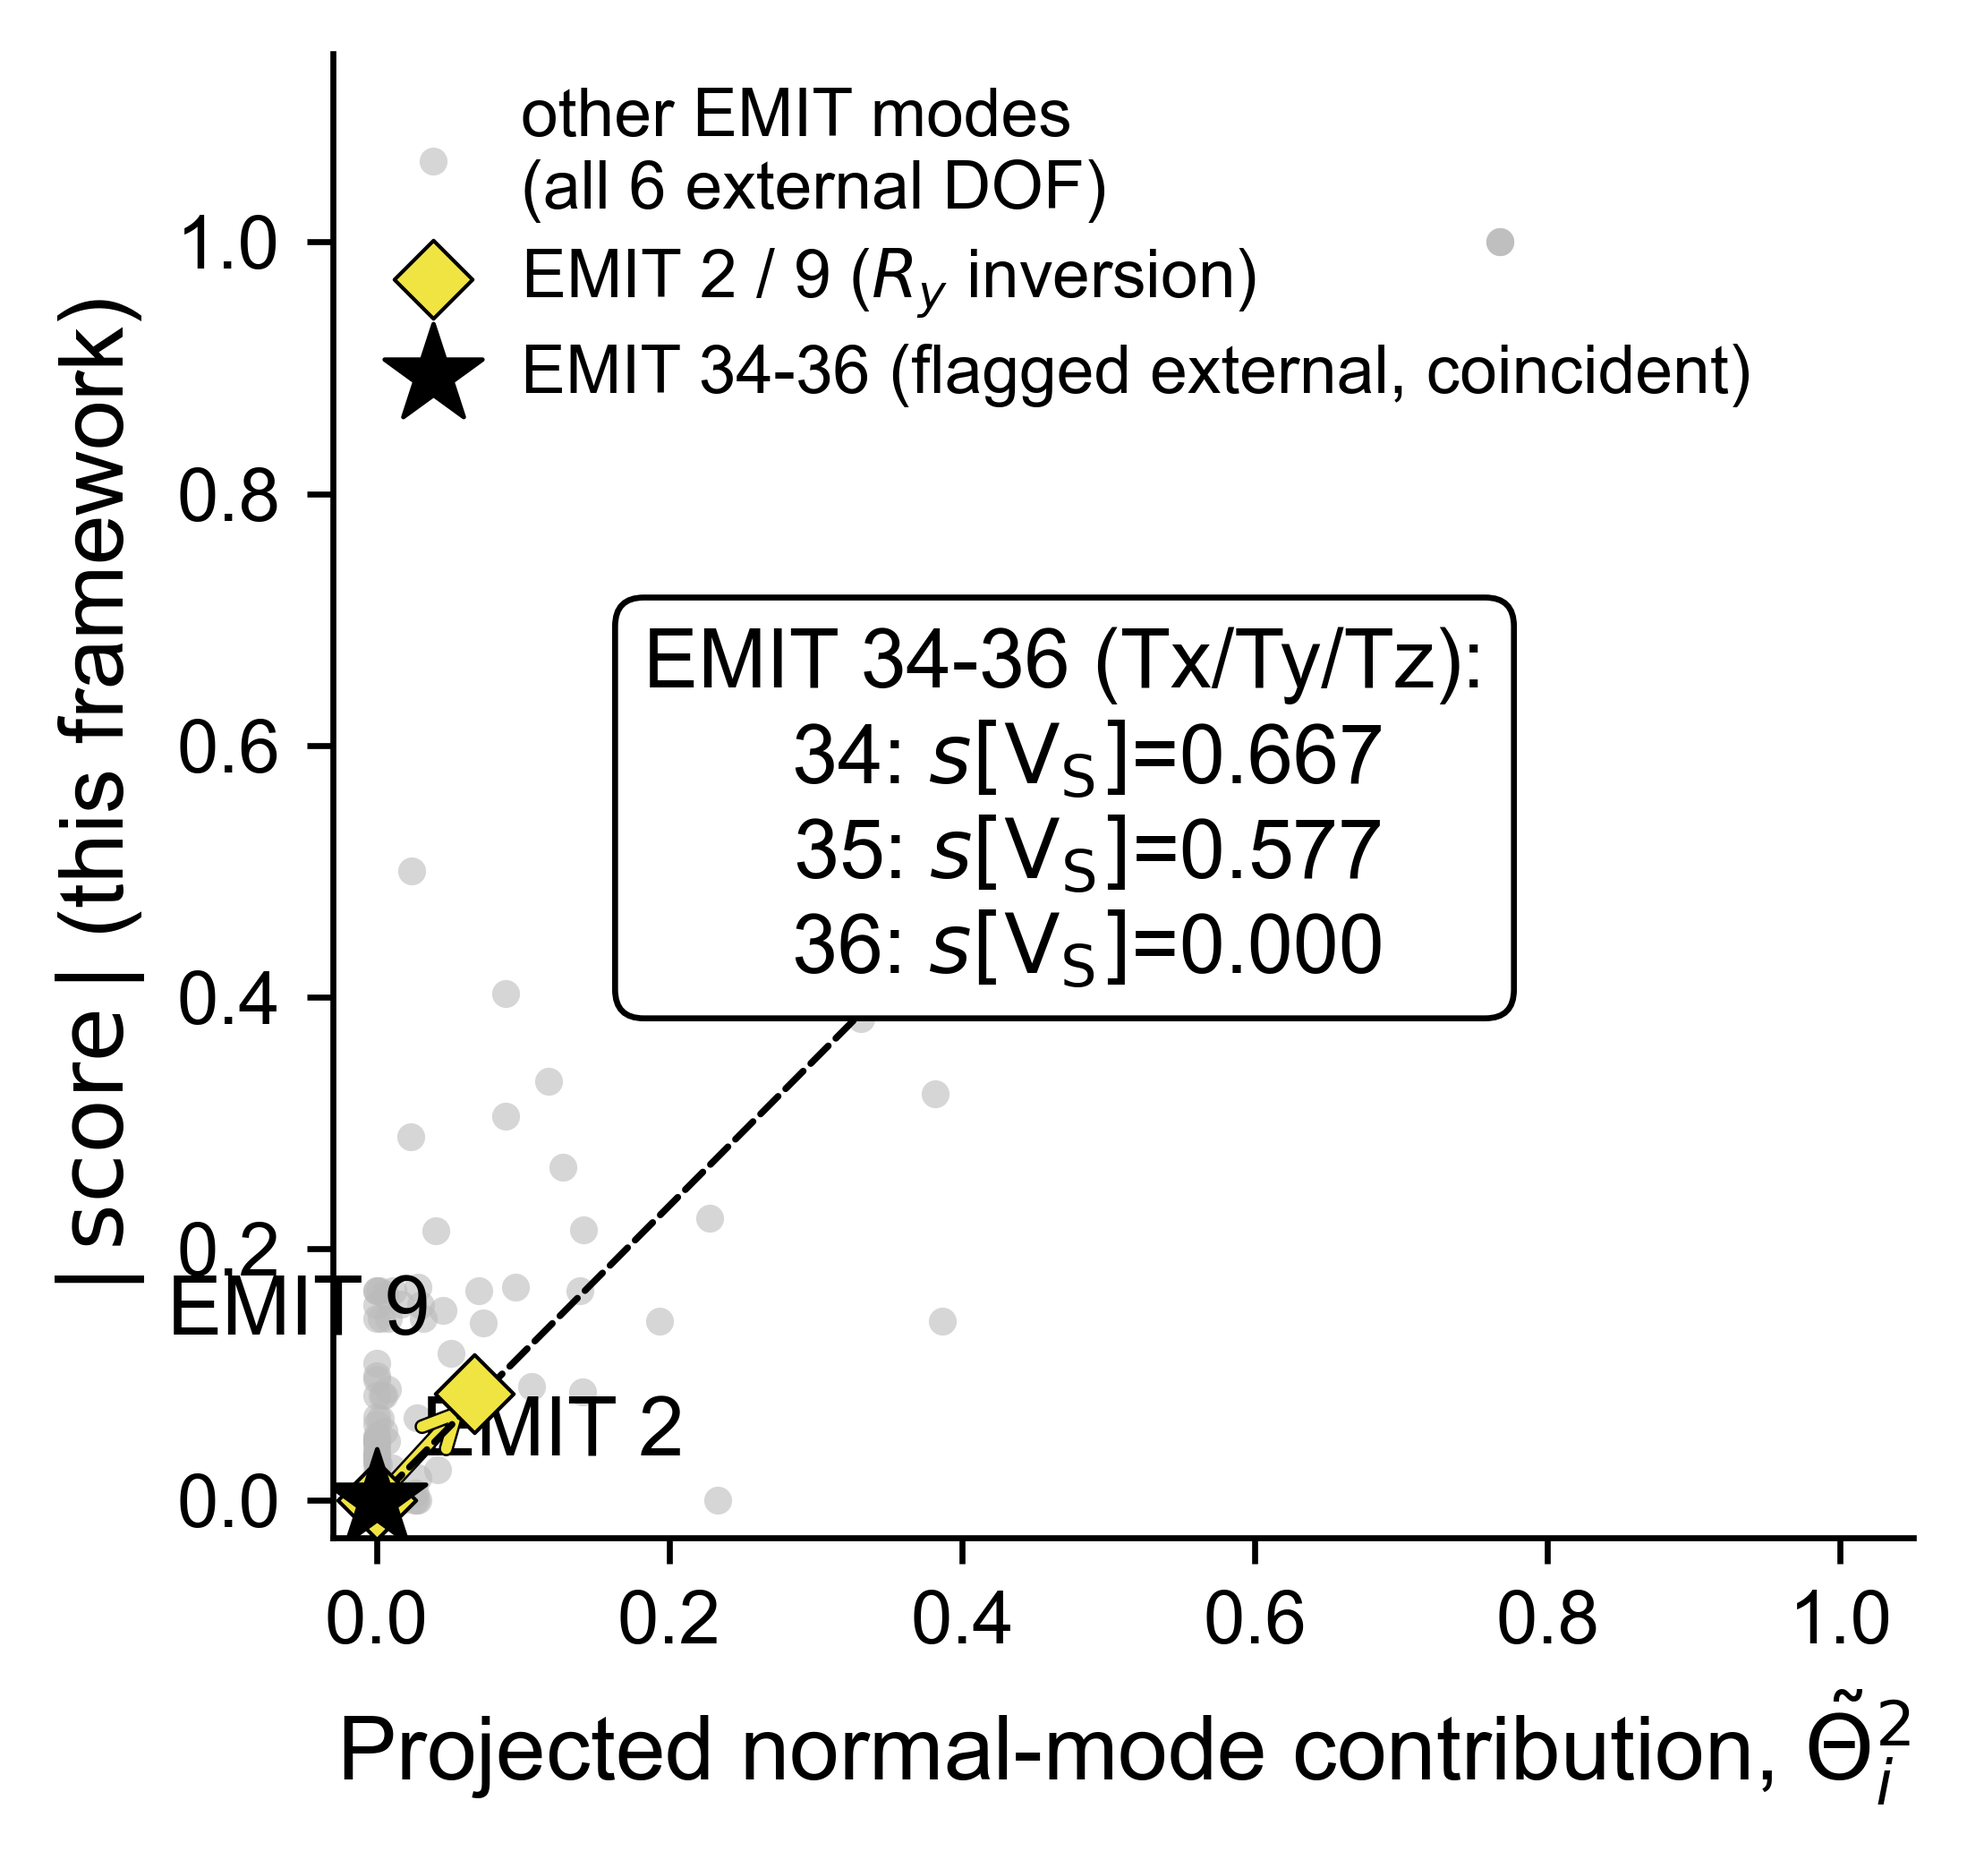
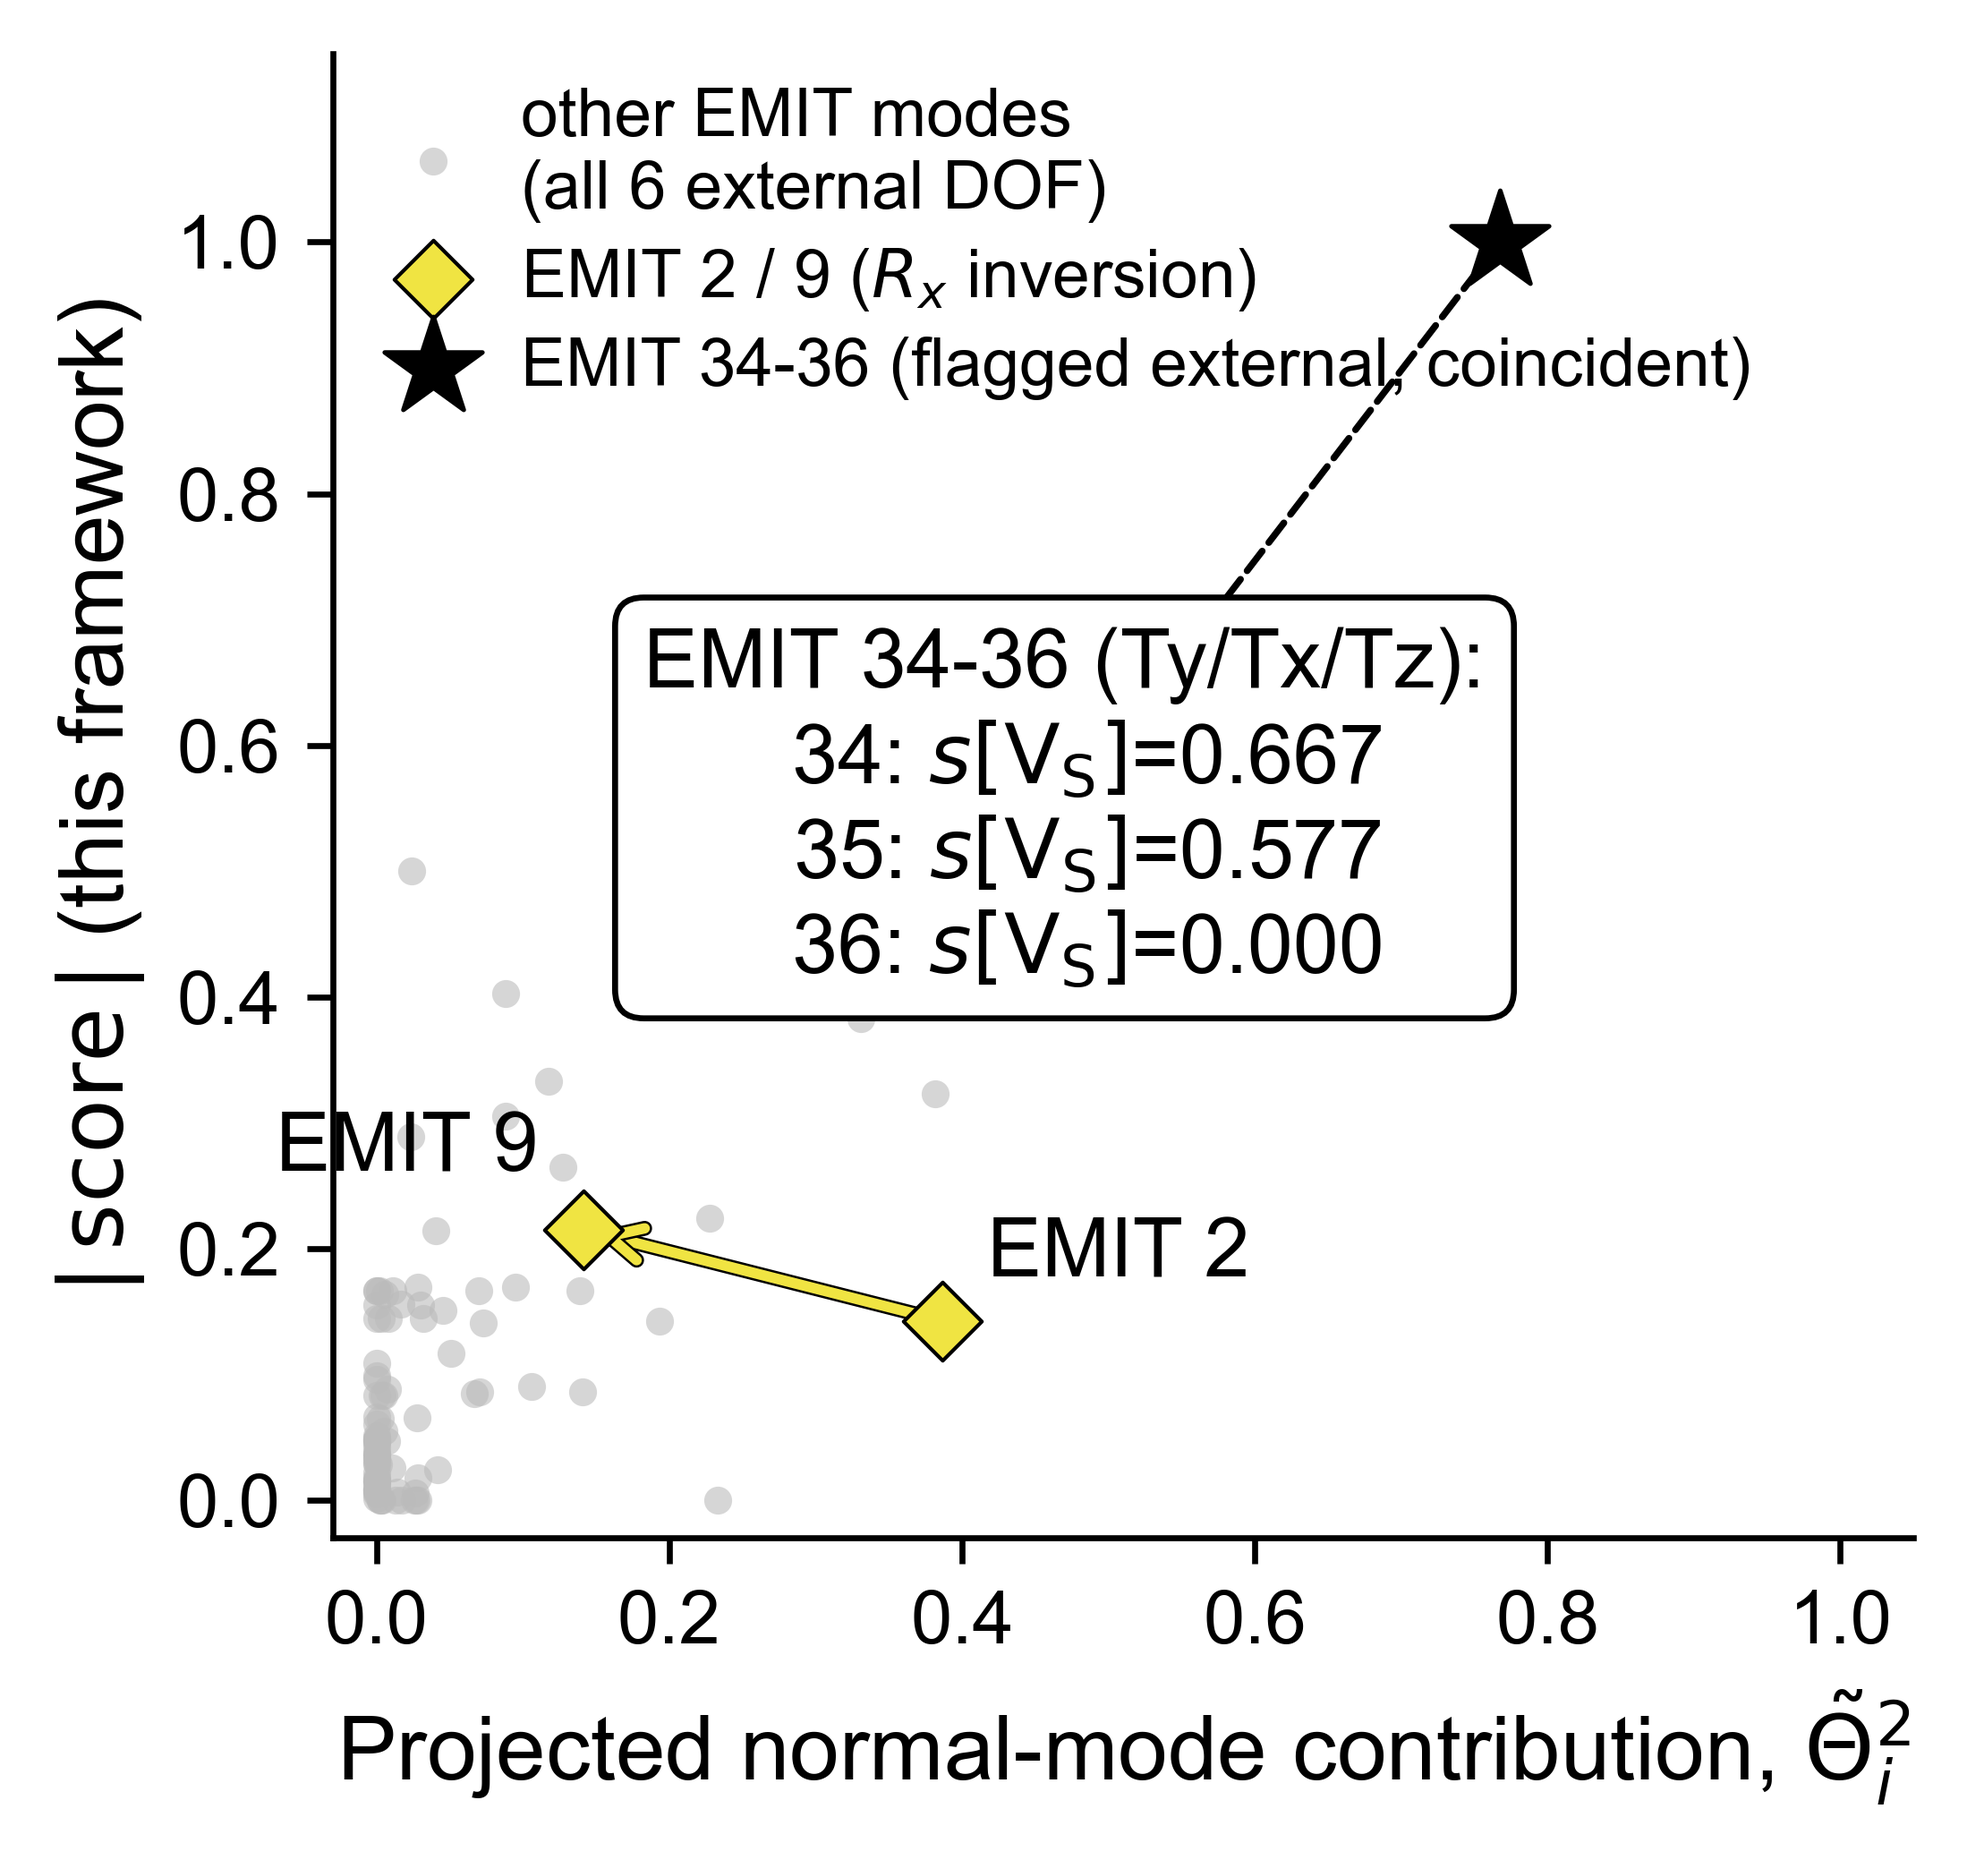
Read benzene EMIT slot axes from tr_label in the stress-test figure
plot_benzene_stress_test hard-coded R_y for the EMIT 2/9 inversion and
T_x/T_y for EMIT 34/35. Under the R1.5 frame rule benzene's in-plane names
are swapped, so the figure read the wrong columns (EMIT 2/9 and 34-36
collapsed to the origin). The axes now come from each mode's tr_label.

diff --git a/src/figures.py b/src/figures.py
@@ -452,17 +452,22 @@ def plot_benzene_stress_test(
                  alpha=0.6, linewidths=0, zorder=2,
                  label="other EMIT modes\n(all 6 external DOF)")
 
-    # -- Highlight 1: s[R_y] non-monotonicity, EMIT 2 vs EMIT 9 --
+    # -- Highlight 1: s[R] non-monotonicity, EMIT 2 vs EMIT 9 --
+    # The in-plane R axis EMIT 9 wins depends on the frame convention (R_y in
+    # the submitted MIT frame, R_x in the R1.5 frame), so read it from the
+    # CSV's own tr_label instead of hard-coding it.
     def _row(mode):
         return emit.loc[emit["Mode"] == mode].iloc[0]
 
     e2, e9 = _row("EMIT 2"), _row("EMIT 9")
-    ax_b.scatter([e2["C2_Ry"], e9["C2_Ry"]], [abs(e2["Ry"]), abs(e9["Ry"])],
+    r_ax = str(e9["tr_label"]) if isinstance(e9["tr_label"], str) and e9["tr_label"].startswith("R") else "Ry"
+    r_tex = "$R_" + r_ax[1] + "$"
+    ax_b.scatter([e2["C2_" + r_ax], e9["C2_" + r_ax]], [abs(e2[r_ax]), abs(e9[r_ax])],
                  color=COLORS["highlight_r"], marker="D", s=55,
                  edgecolors="black", linewidths=0.5, zorder=5,
-                 label=r"EMIT 2 / 9 ($R_y$ inversion)")
+                 label="EMIT 2 / 9 (" + r_tex + " inversion)")
     ann_r = ax_b.annotate(
-        "", xy=(e9["C2_Ry"], abs(e9["Ry"])), xytext=(e2["C2_Ry"], abs(e2["Ry"])),
+        "", xy=(e9["C2_" + r_ax], abs(e9[r_ax])), xytext=(e2["C2_" + r_ax], abs(e2[r_ax])),
         arrowprops=dict(arrowstyle="->", color=COLORS["highlight_r"], lw=1.4),
         zorder=4,
     )
@@ -471,18 +476,21 @@ def plot_benzene_stress_test(
     ann_r.arrow_patch.set_path_effects(
         [pe.Stroke(linewidth=2.0, foreground="black"), pe.Normal()])
     # EMIT 9 label offset upper-left, clear of the arrow's approach angle.
-    ax_b.annotate("EMIT 2", (e2["C2_Ry"], abs(e2["Ry"])),
+    ax_b.annotate("EMIT 2", (e2["C2_" + r_ax], abs(e2[r_ax])),
                   xytext=(6, 6), textcoords="offset points")
-    ax_b.annotate("EMIT 9", (e9["C2_Ry"], abs(e9["Ry"])),
+    ax_b.annotate("EMIT 9", (e9["C2_" + r_ax], abs(e9[r_ax])),
                   xytext=(-6, 8), textcoords="offset points",
                   ha="right")
 
     # -- Highlight 2: flagged external modes, EMIT 34/35/36. By symmetry
-    # (Tx/Ty/Tz translation) these three coincide exactly at the same
+    # (translations) these three coincide exactly at the same
     # (contribution, score) point -- plotted once, with a side callout table
     # (not per-point labels, which would overlap) giving the s[V_S] readout
-    # that distinguishes them.
-    flagged = [("EMIT 34", "Tx"), ("EMIT 35", "Ty"), ("EMIT 36", "Tz")]
+    # that distinguishes them. Their T axes come from tr_label (frame-dependent).
+    flagged = []
+    for mode in ("EMIT 34", "EMIT 35", "EMIT 36"):
+        lab = _row(mode)["tr_label"]
+        flagged.append((mode, lab if isinstance(lab, str) and lab.startswith("T") else "Tz"))
     fx, fy, fvs = [], [], []
     for mode, ax_name in flagged:
         r = _row(mode)
@@ -501,7 +509,7 @@ def plot_benzene_stress_test(
                         lw=0.9, ls="--"),
         zorder=4,
     )
-    callout_text = "EMIT 34-36 (Tx/Ty/Tz):\n" + "\n".join(
+    callout_text = "EMIT 34-36 (" + "/".join(ax for _, ax in flagged) + "):\n" + "\n".join(
         f"  {mode.split()[1]}: " + r"$s[\mathrm{V_S}]$" + f"={vs:.3f}"
         for (mode, _), vs in zip(flagged, fvs)
     )
@@ -529,10 +537,11 @@ def plot_benzene_stress_test(
         "pdf": pdf_path,
         "png": png_path,
         "n_background_points": len(bg_x),
-        "emit2_Ry_score": float(abs(e2["Ry"])),
-        "emit2_Ry_contribution": float(e2["C2_Ry"]),
-        "emit9_Ry_score": float(abs(e9["Ry"])),
-        "emit9_Ry_contribution": float(e9["C2_Ry"]),
+        "emit29_R_axis": r_ax,
+        "emit2_R_score": float(abs(e2[r_ax])),
+        "emit2_R_contribution": float(e2["C2_" + r_ax]),
+        "emit9_R_score": float(abs(e9[r_ax])),
+        "emit9_R_contribution": float(e9["C2_" + r_ax]),
         "emit34_36_scores": fy,
         "emit34_36_contributions": fx,
         "emit34_36_vstretch": fvs,

diff --git a/src/flag_validation.py b/src/flag_validation.py
@@ -14,8 +14,9 @@ below): precision = 1.0 (flag never fires on a genuinely clean mode), recall
 one-to-one linear_sum_assignment only ever assigns 6 of 36 modes an external
 slot at all (by construction, not a bug) -- the other 30 modes reach Step 4
 and can never be flagged regardless of true external character. E.g. EMIT 2
-has more genuine Ry character than EMIT 9 by projection (38.7% vs 14.1%) but
-EMIT 9 wins the Ry slot on raw score (0.215 vs 0.143), so EMIT 9 is flagged
+has more genuine in-plane R character than EMIT 9 by projection (38.7% vs 14.1%;
+R_y in the submitted MIT frame, R_x in the R1.5 frame) but
+EMIT 9 wins that R slot on raw score (0.215 vs 0.143), so EMIT 9 is flagged
 (TP) while EMIT 2 is missed (FN) -- the recall gap is systematic to Step 2's
 assignment mechanism, not an isolated edge case.
 
